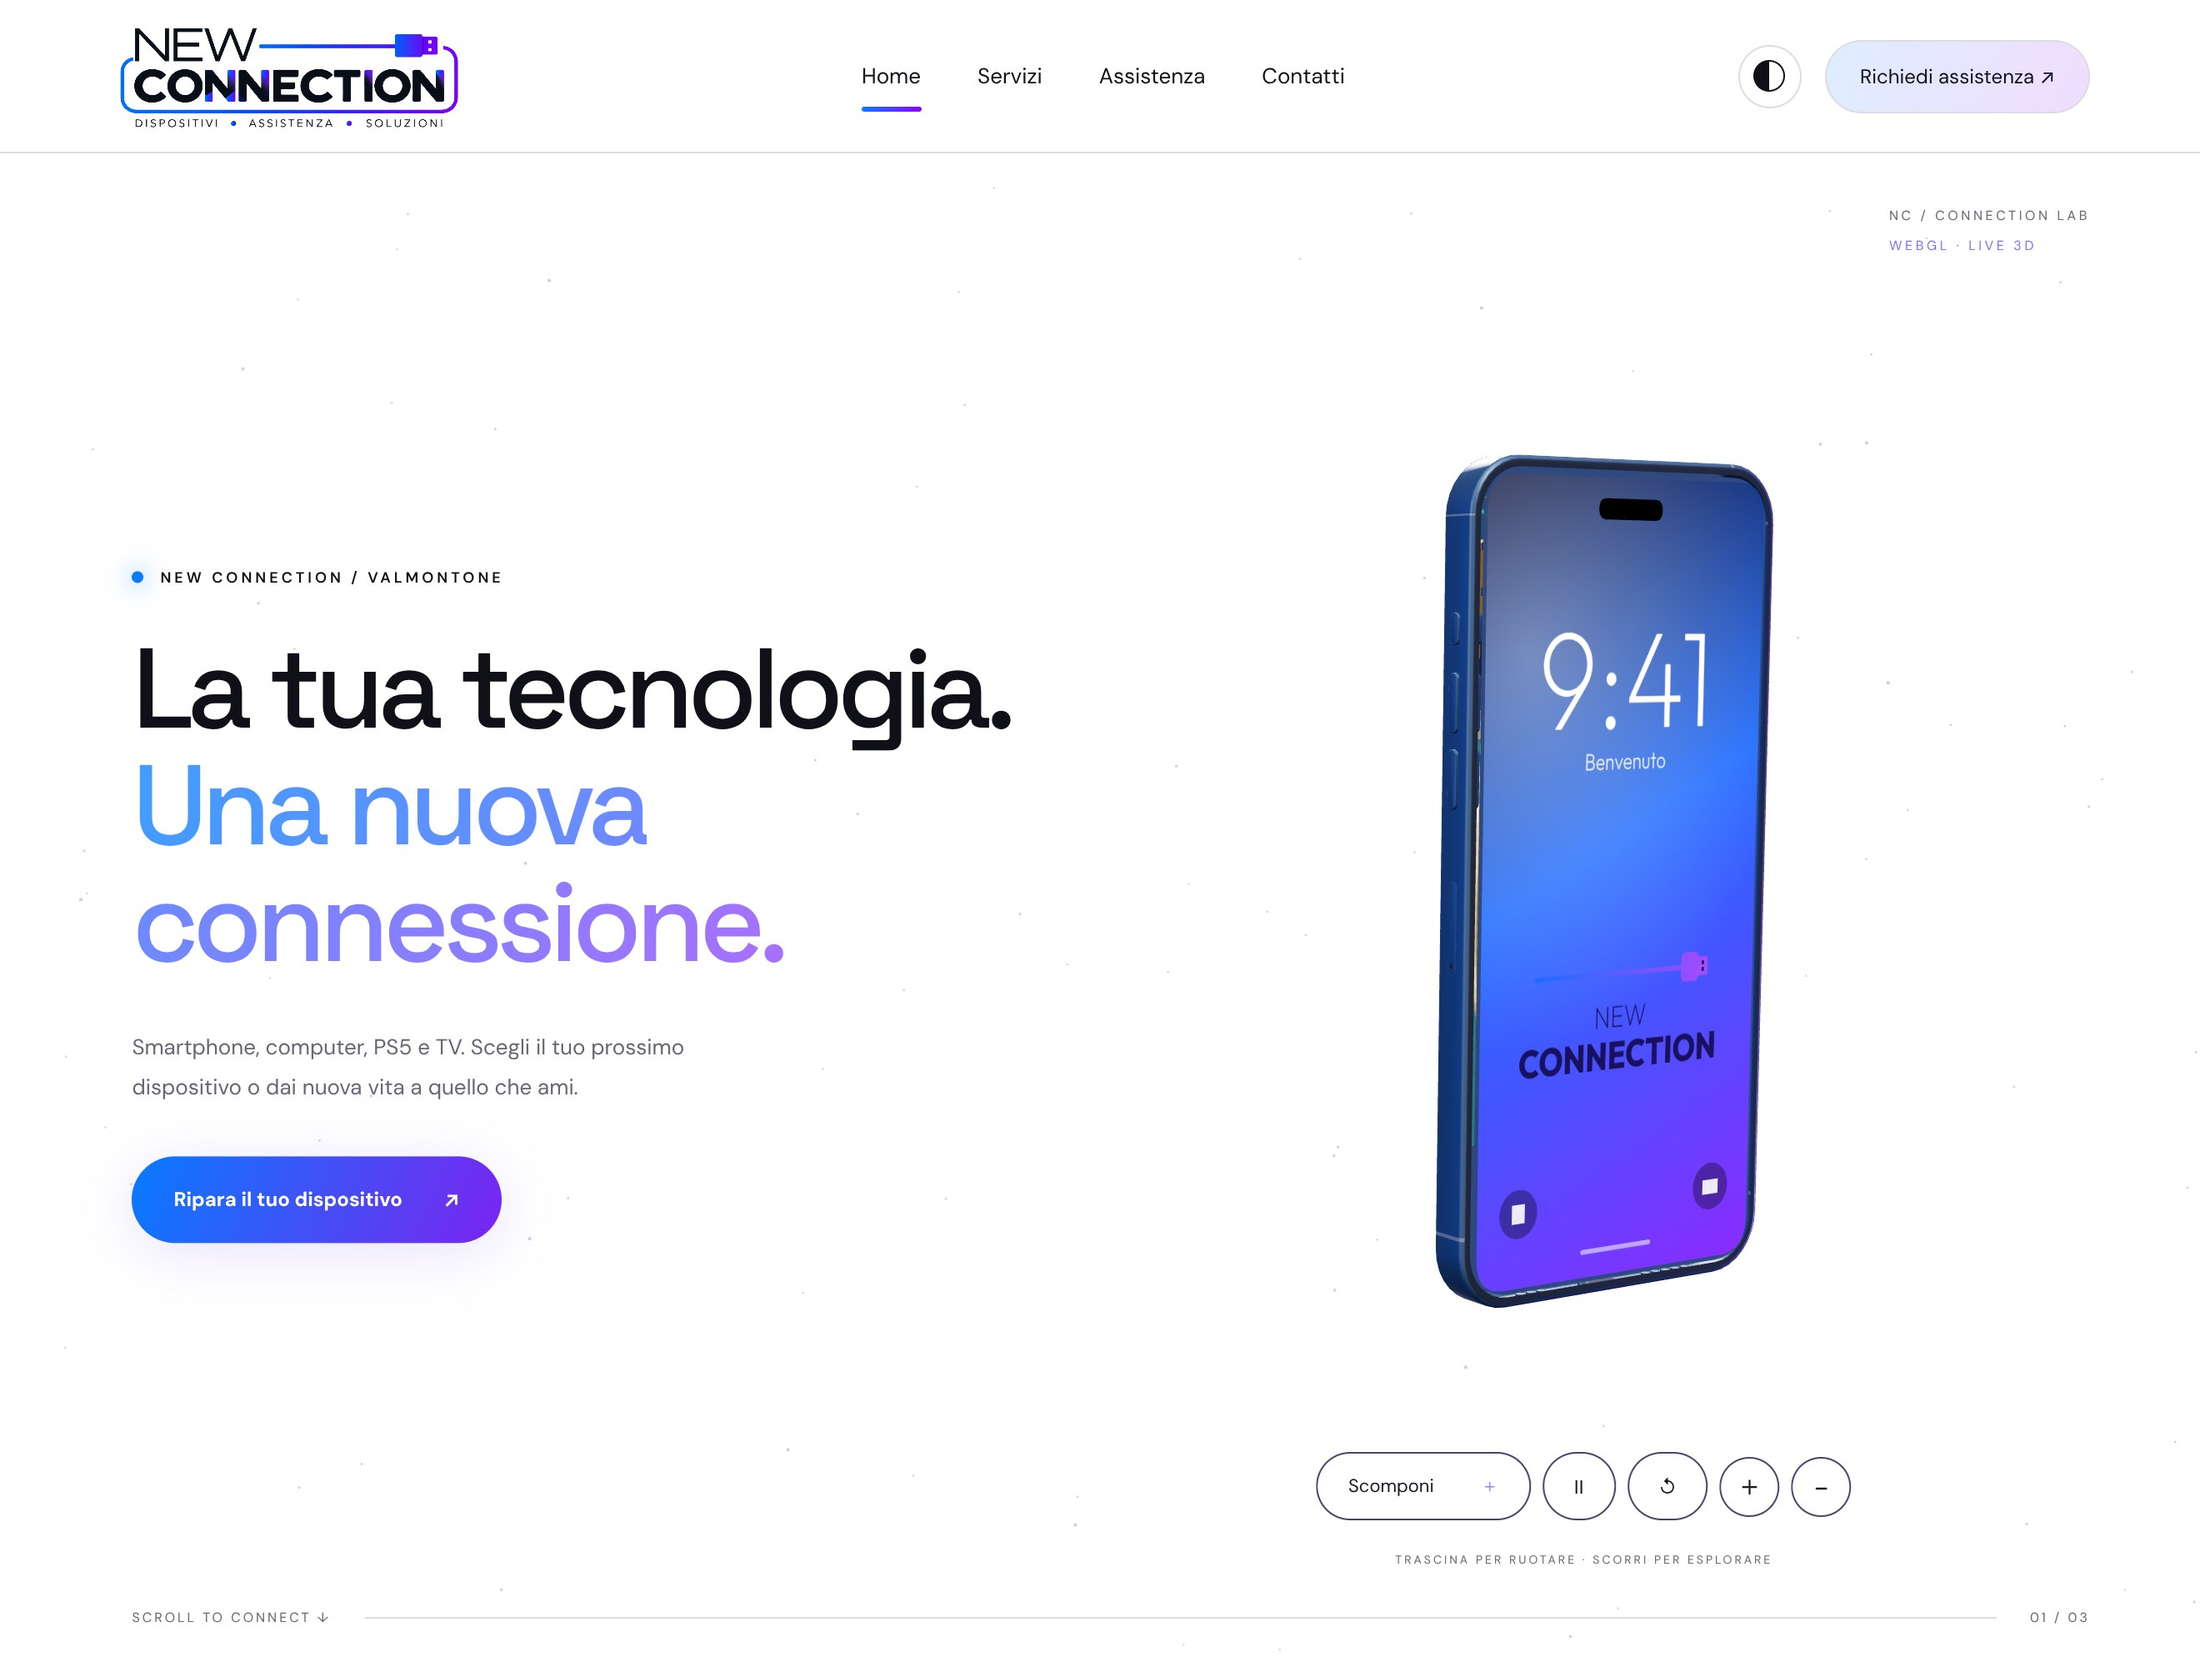
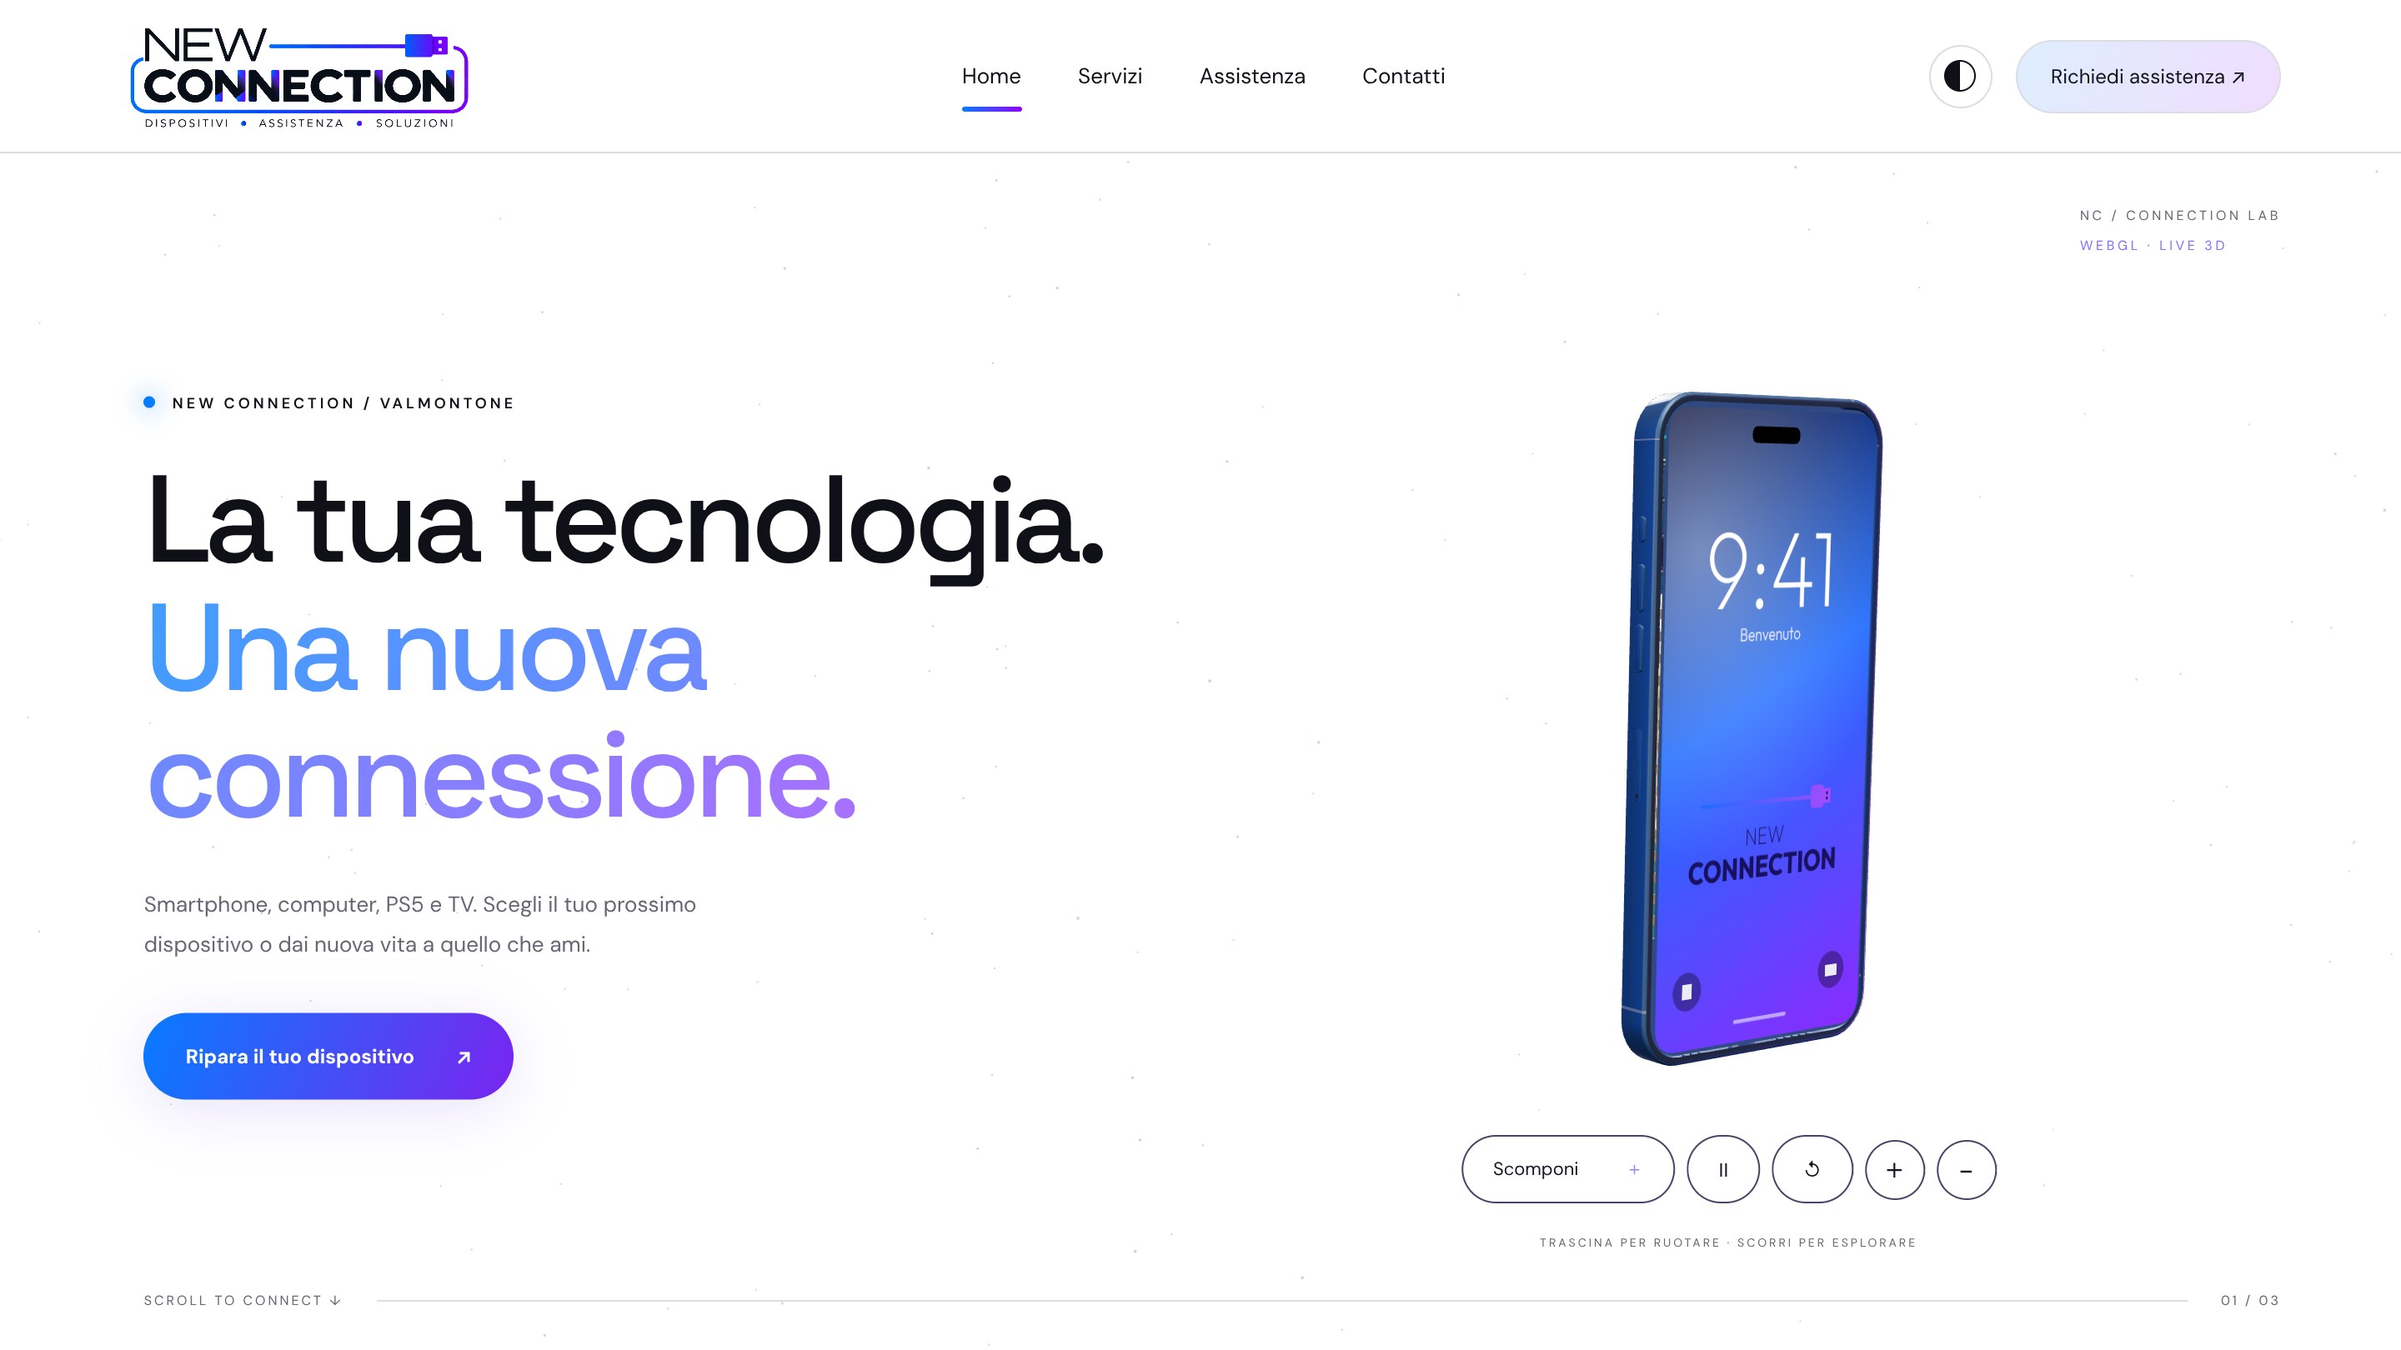
Anteprime progetti intere, senza tagli laterali
- Riquadri delle anteprime in formato 16:9, come gli screenshot
- New Connection: screenshot rifatto in 16:9
- Progetti universitari: miniature con le proporzioni dello screenshot

Claude-Session: https://claude.ai/code/session_015pJTn1j3eiwPEVam8swe85

diff --git a/style.css b/style.css
@@ -3567,3 +3567,53 @@ html.has-js .reveal:not(.is-visible) {
         line-height: 1.6;
     }
 }
+
+/* ==========================================
+   ANTEPRIME PROGETTI — PAGINA INTERA, SENZA TAGLI
+========================================== */
+
+.project-list > .project-row {
+    grid-template-columns:
+        minmax(90px, 0.42fr)
+        minmax(360px, 1.75fr)
+        minmax(260px, 0.95fr);
+}
+
+.project-list > .project-row .project-shot {
+    min-height: 0;
+    aspect-ratio: 16 / 9;
+}
+
+.project-list > .project-row .project-shot img {
+    object-position: center top;
+}
+
+@media (max-width: 1150px) {
+
+    .project-list > .project-row {
+        grid-template-columns:
+            80px
+            minmax(300px, 1.4fr)
+            minmax(240px, 1fr);
+    }
+}
+
+@media (max-width: 760px) {
+
+    .project-list > .project-row {
+        grid-template-columns: 1fr;
+    }
+
+    .project-list > .project-row .project-shot {
+        aspect-ratio: 16 / 9;
+    }
+}
+
+/* Progetti universitari: miniatura con le proporzioni dello screenshot */
+
+.university-cards .project-row:not(.thesis-row) .project-shot {
+    height: auto;
+    min-height: 0;
+    aspect-ratio: 16 / 10;
+    align-self: center;
+}

diff --git a/index.html b/index.html
@@ -261,7 +261,7 @@
 
           <div class="project-shot">
 
-            <img src="images/new-connection.jpg?v=2"
+            <img src="images/new-connection.jpg?v=3"
               alt="Anteprima del sito New Connection">
 
           </div>
